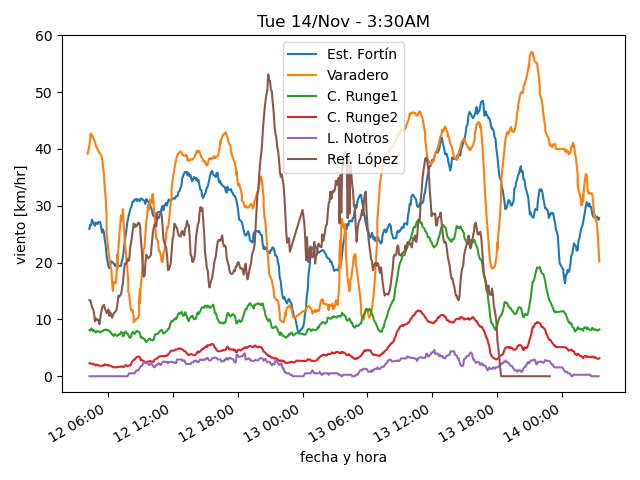
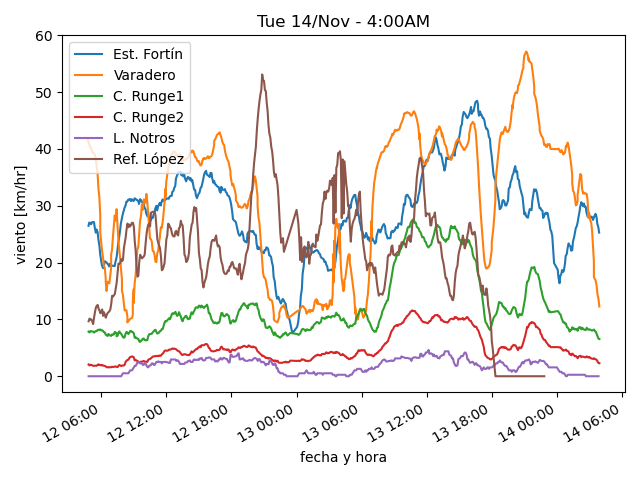
actualiza datos

diff --git a/estaciones/estacion3.html b/estaciones/estacion3.html
@@ -18,32 +18,32 @@
     </tr>
     <tr>
      <td class="stats_data">
-      3:24AM
+      3:54AM
      </td>
     </tr>
     <tr>
      <td class="stats_data">
-      1.5⁰C
+      1.0⁰C
      </td>
     </tr>
     <tr>
      <td class="stats_data">
-      -3.4⁰C
+      -3.5⁰C
      </td>
     </tr>
     <tr>
      <td class="stats_data">
-      70.1%
+      72.0%
      </td>
     </tr>
     <tr>
      <td class="stats_data">
-      1004.34hPa
+      1004.23hPa
      </td>
     </tr>
     <tr>
      <td class="stats_data">
-      5.3/7.6 km/hr WSW
+      5.0/6.8 km/hr SW
      </td>
     </tr>
     <tr>

diff --git a/estaciones/estacion5.html b/estaciones/estacion5.html
@@ -18,27 +18,27 @@
     </tr>
     <tr>
      <td class="stats_data">
-      3:20AM
+      3:50AM
      </td>
     </tr>
     <tr>
      <td class="stats_data">
-      1.6⁰C
+      1.1⁰C
      </td>
     </tr>
     <tr>
      <td class="stats_data">
-      -3.1⁰C
+      -3.0⁰C
      </td>
     </tr>
     <tr>
      <td class="stats_data">
-      71.0%
+      74.0%
      </td>
     </tr>
     <tr>
      <td class="stats_data">
-      1017.95hPa
+      1017.98hPa
      </td>
     </tr>
     <tr>

diff --git a/estaciones/estacion2.html b/estaciones/estacion2.html
@@ -18,7 +18,7 @@
     </tr>
     <tr>
      <td class="stats_data">
-      3:24AM
+      3:54AM
      </td>
     </tr>
     <tr>
@@ -28,12 +28,12 @@
     </tr>
     <tr>
      <td class="stats_data">
-      -2.5⁰C
+      -1.9⁰C
      </td>
     </tr>
     <tr>
      <td class="stats_data">
-      66.4%
+      69.0%
      </td>
     </tr>
     <tr>
@@ -43,7 +43,7 @@
     </tr>
     <tr>
      <td class="stats_data">
-      8.3/12.7 km/hr W
+      7.4/11.1 km/hr W
      </td>
     </tr>
     <tr>

diff --git a/estaciones/estacion4.html b/estaciones/estacion4.html
@@ -18,12 +18,12 @@
     </tr>
     <tr>
      <td class="stats_data">
-      3:24AM
+      3:54AM
      </td>
     </tr>
     <tr>
      <td class="stats_data">
-      1.3⁰C
+      0.8⁰C
      </td>
     </tr>
     <tr>
@@ -33,7 +33,7 @@
     </tr>
     <tr>
      <td class="stats_data">
-      67.0%
+      69.1%
      </td>
     </tr>
     <tr>
@@ -43,7 +43,7 @@
     </tr>
     <tr>
      <td class="stats_data">
-      1.9/3.1 km/hr SW
+      1.0/1.6 km/hr SSW
      </td>
     </tr>
     <tr>

diff --git a/estaciones/estacion1.html b/estaciones/estacion1.html
@@ -18,17 +18,17 @@
     </tr>
     <tr>
      <td class="stats_data">
-      3:23AM
+      3:53AM
      </td>
     </tr>
     <tr>
      <td class="stats_data">
-      2.3⁰C
+      2.2⁰C
      </td>
     </tr>
     <tr>
      <td class="stats_data">
-      -3.6⁰C
+      -3.7⁰C
      </td>
     </tr>
     <tr>
@@ -43,7 +43,7 @@
     </tr>
     <tr>
      <td class="stats_data">
-      14.4/27.4 km/hr W
+      8.0/26.6 km/hr W
      </td>
     </tr>
     <tr>
